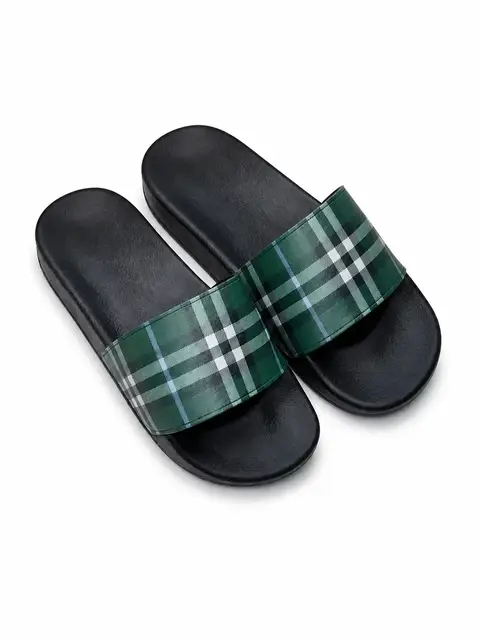
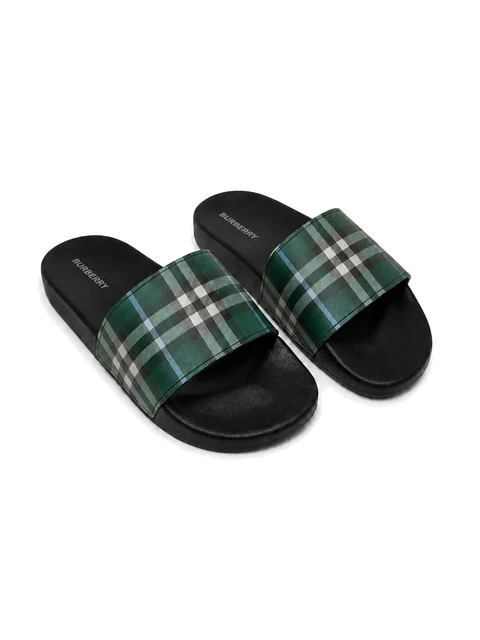
fix: replace Burberry green product visual

Changed region(s): [[0.0625, 0.1875, 0.9375, 0.7812]]

diff --git a/boutique.js b/boutique.js
@@ -602,7 +602,7 @@ window.AURA_IMG = function (img) {
   /* Les médias statiques sont servis un an en cache. Cette révision change
      leur URL à chaque livraison : le téléphone reçoit immédiatement la
      nouvelle image, puis la garde sans refaire de téléchargement inutile. */
-  var MEDIA_REV = "20260831b";
+  var MEDIA_REV = "20260901g";
   function mediaUrl(src){
     src = String(src || "");
     if (!/^(?:\.\/)?(?:assets|logos)\//.test(src)) return src;

diff --git a/catalogue.html b/catalogue.html
@@ -110,6 +110,6 @@
 <script src="supabase.config.js"></script>
 <script src="supabase-client.js?v=20260828l"></script>
 <script src="catalog.js?v=20260901b"></script>
-<script src="boutique.js?v=20260901f"></script>
+<script src="boutique.js?v=20260901g"></script>
 </body>
 </html>

diff --git a/collection.html b/collection.html
@@ -125,6 +125,6 @@
 <script src="supabase.config.js"></script>
 <script src="supabase-client.js?v=20260828l"></script>
 <script src="catalog.js?v=20260901b"></script>
-<script src="boutique.js?v=20260901f"></script>
+<script src="boutique.js?v=20260901g"></script>
 </body>
 </html>

diff --git a/femmes.html b/femmes.html
@@ -178,6 +178,6 @@
 <script src="supabase.config.js"></script>
 <script src="supabase-client.js?v=20260828l"></script>
 <script src="catalog.js?v=20260901b"></script>
-<script src="boutique.js?v=20260901f"></script>
+<script src="boutique.js?v=20260901g"></script>
 </body>
 </html>

diff --git a/gabarit-produit.html b/gabarit-produit.html
@@ -112,6 +112,6 @@
 <script src="supabase.config.js"></script>
 <script src="supabase-client.js?v=20260828l"></script>
 <script src="catalog.js?v=20260901b"></script>
-<script src="boutique.js?v=20260901f"></script>
+<script src="boutique.js?v=20260901g"></script>
 </body>
 </html>

diff --git a/hommes.html b/hommes.html
@@ -180,6 +180,6 @@
 <script src="supabase.config.js"></script>
 <script src="supabase-client.js?v=20260828l"></script>
 <script src="catalog.js?v=20260901b"></script>
-<script src="boutique.js?v=20260901f"></script>
+<script src="boutique.js?v=20260901g"></script>
 </body>
 </html>

diff --git a/index.html b/index.html
@@ -95,6 +95,6 @@
 <script src="supabase.config.js"></script>
 <script src="supabase-client.js?v=20260828l"></script>
 <script src="catalog.js?v=20260901b"></script>
-<script src="boutique.js?v=20260901f"></script>
+<script src="boutique.js?v=20260901g"></script>
 </body>
 </html>

diff --git a/marques.html b/marques.html
@@ -72,6 +72,6 @@
 <script src="supabase.config.js"></script>
 <script src="supabase-client.js?v=20260828l"></script>
 <script src="catalog.js?v=20260901b"></script>
-<script src="boutique.js?v=20260901f"></script>
+<script src="boutique.js?v=20260901g"></script>
 </body>
 </html>

diff --git a/JOURNAL-DE-REPRISE.md b/JOURNAL-DE-REPRISE.md
@@ -1193,3 +1193,14 @@ déborde. Aucune commande existante ne référençait `lv-damier`.
 Déploiement : commit `2a40e21` poussé sur `main` et confirmé sur Vercel. La
 rangée publique affiche dans l'ordre Damier Bleu, Signature LV, Monogramme
 Relief, V Croisée ; aucune image cassée ni erreur console.
+
+### Session du 1er septembre 2026 — refaire le Burberry vert (en cours)
+
+Demande : remplacer totalement le visuel studio Burberry vert par une nouvelle
+version fidèle à la vraie paire, avec le marquage authentique « BURBERRY » sur
+la semelle intérieure dans la zone du talon. Aucune ancienne version ne doit
+rester utilisée par le site. État Git : `main` au commit `5227a9e`, propre hors
+`design-qa.md` et `tmp/` non suivis et hors portée. Fichiers envisagés : visuel
+produit vert et toutes ses miniatures dérivées, références/cache si nécessaire,
+puis journal. Risques : texte de marque mal orthographié, motif tartan déformé,
+modèle ou angle modifié, ancien fichier encore servi par le cache immutable.
